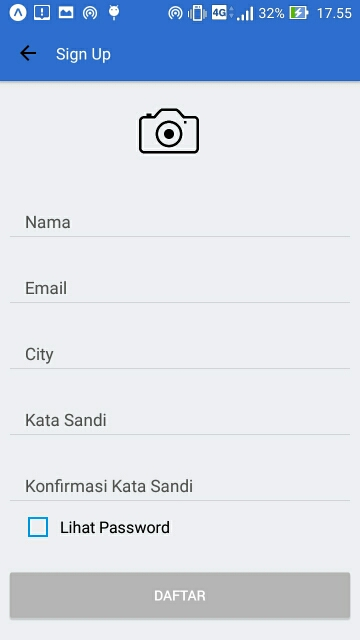
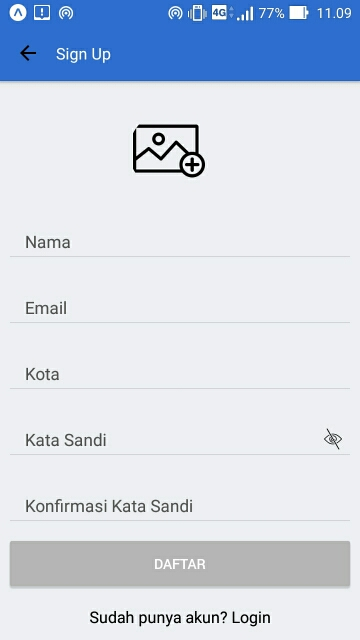
change signUp doc's image

diff --git a/src/components/SignUp.js b/src/components/SignUp.js
@@ -8,7 +8,7 @@ import { ImagePicker } from 'expo';
 import uuid from 'uuid';
 import { getFullDate } from '../utils';
 import { ErrorStyles } from '../css/error';
-import defaultPhoto from '../images/add_photo.png';
+import defaultPhoto from '../images/add_image.png';
 import { auth, db } from '../firebase';
 import { st, fbs } from '../firebase/config';
 
@@ -50,7 +50,7 @@ class SignUpScreen extends Component {
         this.showToastMessage = this.showToastMessage.bind(this);
         this.handleShowPassword = this.handleShowPassword.bind(this);
         this.choosePhoto = this.choosePhoto.bind(this);
-        this.uploadImageAsync = this.uploadImageAsync.bind(this);
+        this.uploadImage = this.uploadImage.bind(this);
         this.handleSubmit = this.handleSubmit.bind(this);
     }
 
@@ -105,18 +105,18 @@ class SignUpScreen extends Component {
         });
         
         !result.cancelled
-          ? this.uploadImageAsync(result.uri)
+          ? this.uploadImage(result.uri)
           : 0
     }
 
-    uploadImageAsync = async (uri) => {
+    uploadImage = async (uri) => {
         let response = await fetch(uri);
         let blob = await response.blob();
         let ref = st.child(uuid.v4());  
         let uploadTask = ref.put(blob);
 
         uploadTask.on('state_changed', (snapshot) => {
-            var progress = (snapshot.bytesTransferred / snapshot.totalBytes) * 100;
+            let progress = (snapshot.bytesTransferred / snapshot.totalBytes) * 100;
             this.setState({ uploadProgress: progress });
             console.log('Upload is ' + progress + '% done');
             switch (snapshot.state) {
